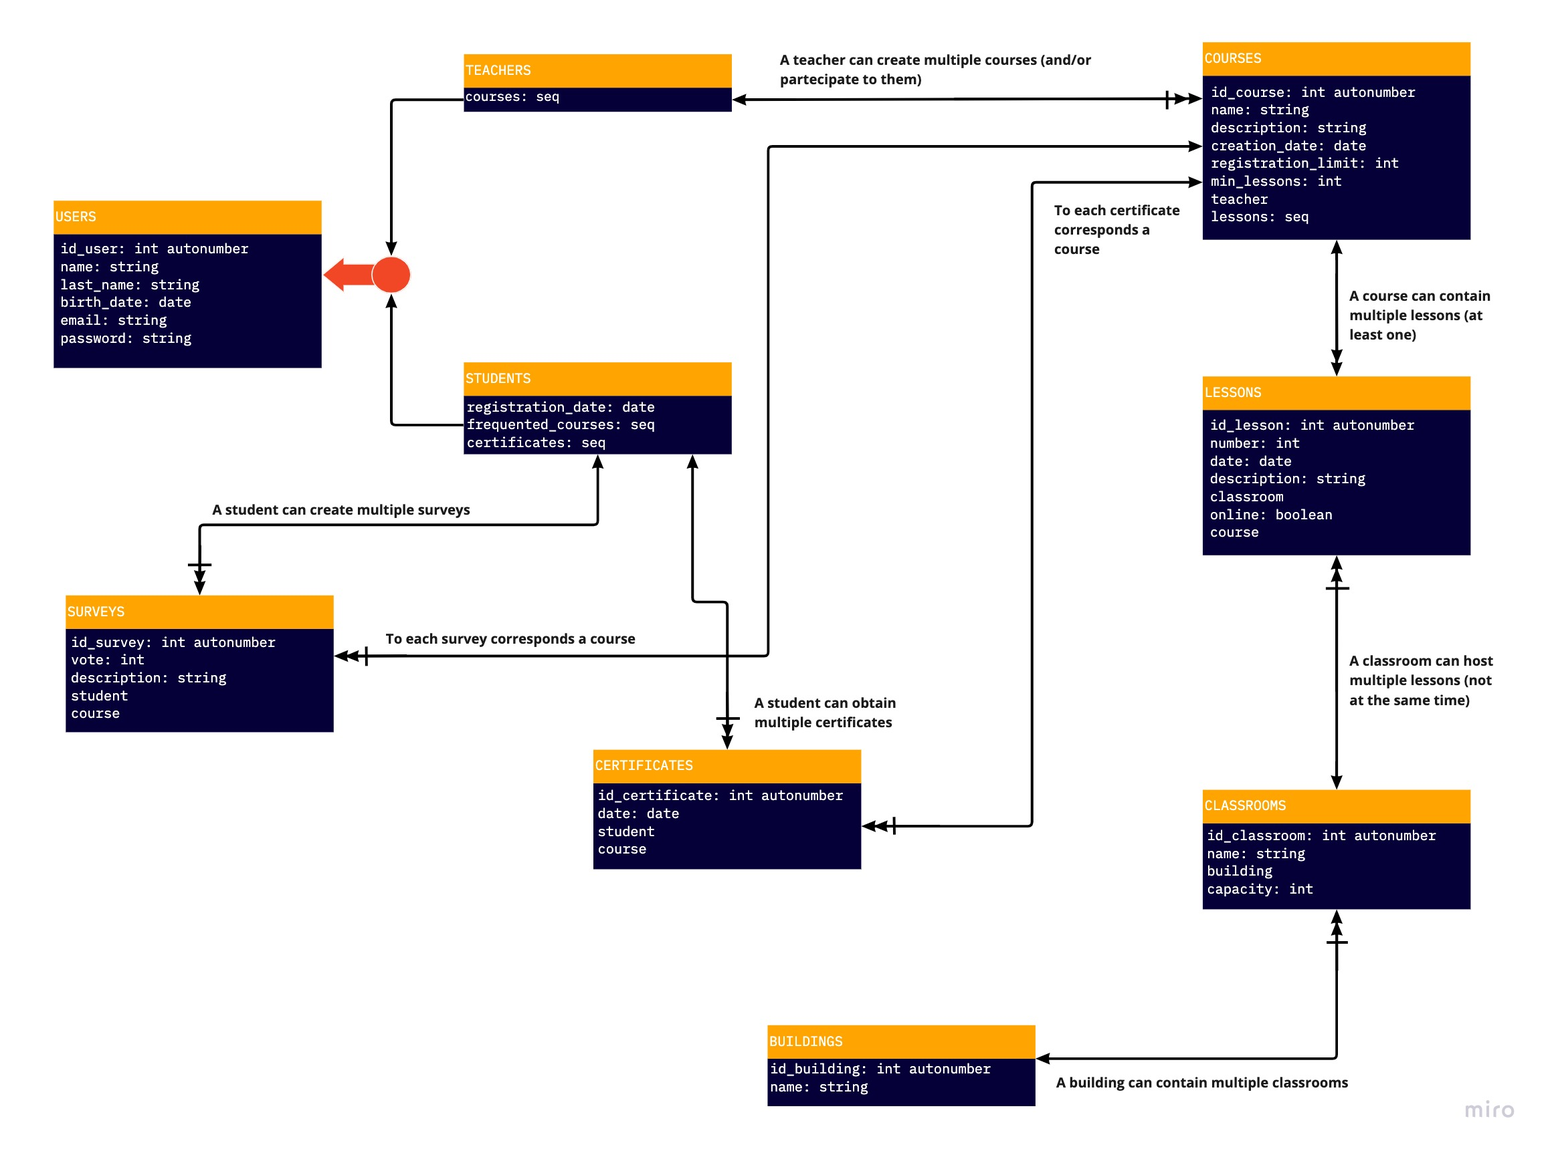
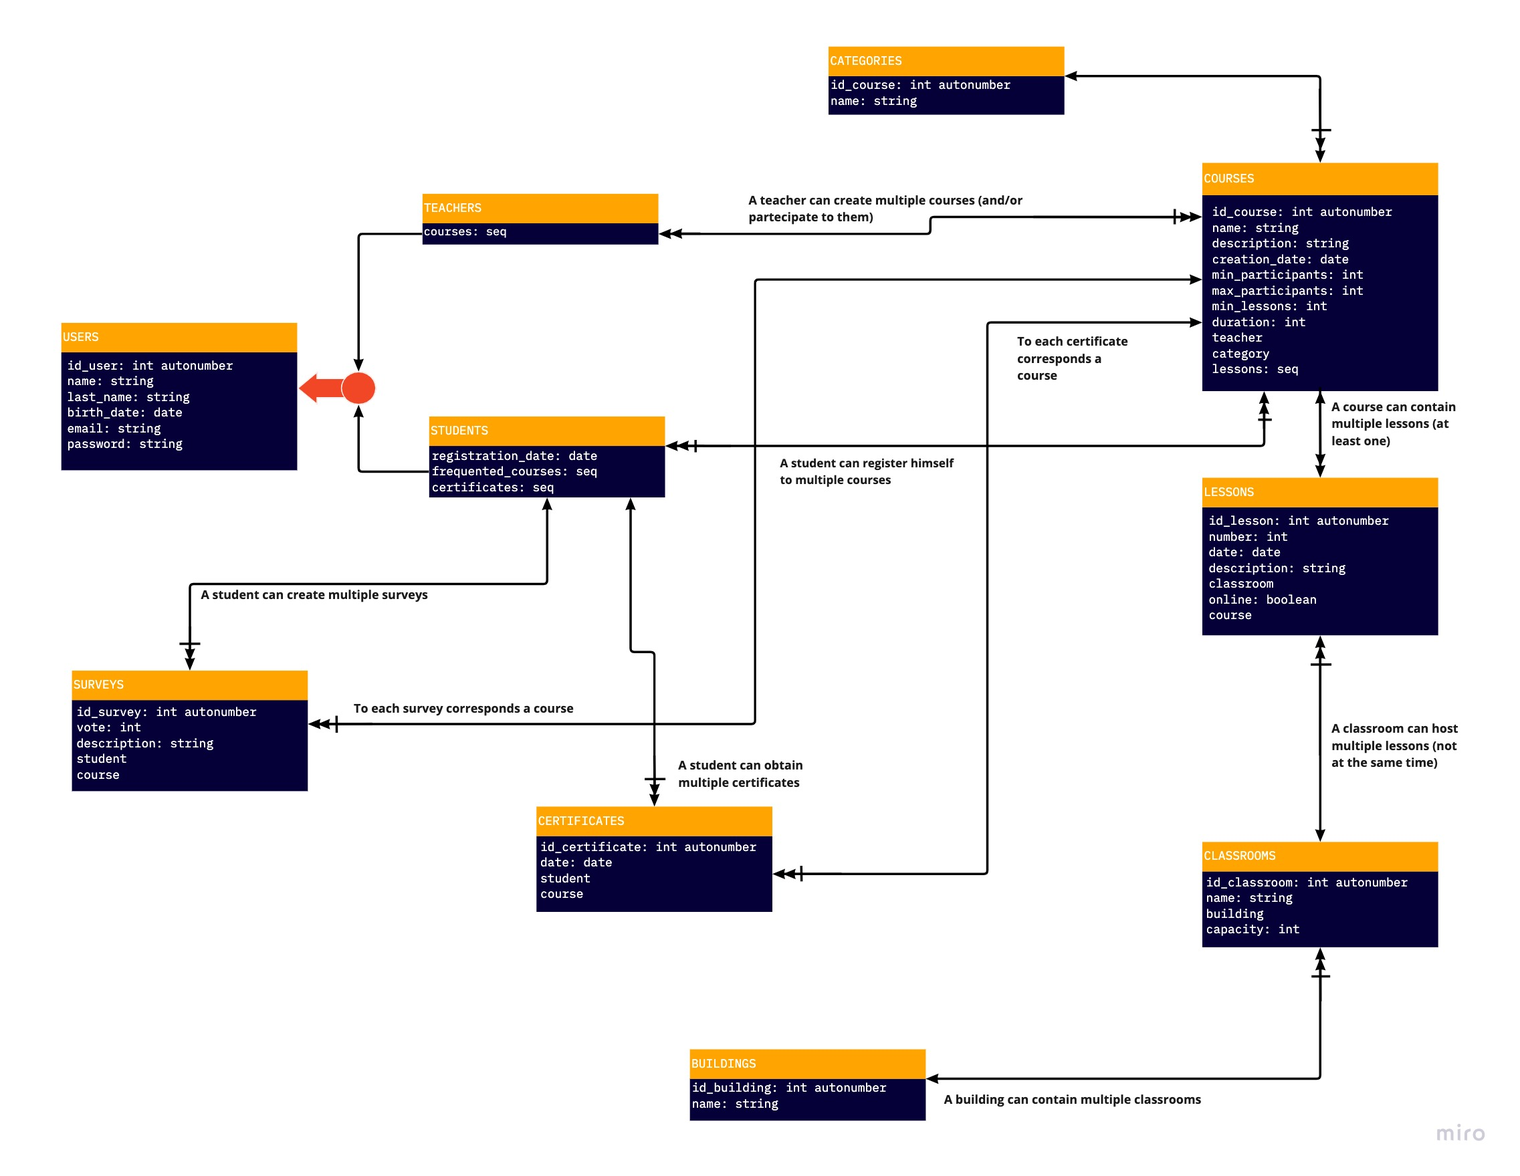
Updated documentation
- updated relational/conceptual schemes
- added categories and many-to-many relation between courses and teachers

diff --git a/docs/html/pcto_webapp_plan.html b/docs/html/pcto_webapp_plan.html
@@ -2,7 +2,7 @@
 <html lang="en">
 <head>
 <title>PCTO Webapp Plan</title>
-<!-- 2022-04-20 Wed 14:59 -->
+<!-- 2022-04-20 Wed 22:20 -->
 <meta charset="utf-8">
 <meta name="viewport" content="width=device-width, initial-scale=1">
 <meta name="generator" content="Org-mode">
@@ -433,7 +433,7 @@ $(function() {
 </li>
 <li><code>[X]</code> Pianificare tabelle con i <b>controlli di integrità</b>
 </li>
-<li><code>[&#xa0;]</code> Aggiungere tabella <b>Categorie</b> e aggiungere il campo in Corsi
+<li><code>[X]</code> Aggiungere tabella <b>Categorie</b> e aggiungere il campo in Corsi
 </li>
 <li><code>[&#xa0;]</code> Creazione <b>database</b>
 </li>
@@ -520,86 +520,123 @@ $(function() {
 <div class="outline-text-3" id="text-8-1">
 <div class="org-src-container">
 
-<pre class="src src-sql">    <span style="color: #a89984;">-- </span><span style="color: #a89984;">tabella utenti</span>
-    <span style="color: #9d0006;">CREATE</span> <span style="color: #9d0006;">TABLE</span> <span style="color: #b57614;">users</span> (
-        id_user <span style="color: #8f3f71;">INT</span> AUTO_INCREMENT,
-        first_name <span style="color: #8f3f71;">VARCHAR</span>(<span style="color: #8f3f71; font-weight: bold;">20</span>) <span style="color: #9d0006;">NOT</span> <span style="color: #9d0006;">NULL</span>,
-        last_name <span style="color: #8f3f71;">VARCHAR</span>(<span style="color: #8f3f71; font-weight: bold;">20</span>) <span style="color: #9d0006;">NOT</span> <span style="color: #9d0006;">NULL</span>,
-        birth_date <span style="color: #8f3f71;">DATE</span> <span style="color: #9d0006;">NOT</span> <span style="color: #9d0006;">NULL</span>,
-        email <span style="color: #8f3f71;">VARCHAR</span>(<span style="color: #8f3f71; font-weight: bold;">30</span>) <span style="color: #9d0006;">NOT</span> <span style="color: #9d0006;">NULL</span>,
-        password <span style="color: #8f3f71;">VARCHAR</span>(<span style="color: #8f3f71; font-weight: bold;">15</span>) <span style="color: #9d0006;">NOT</span> <span style="color: #9d0006;">NULL</span>
-        <span style="color: #9d0006;">PRIMARY</span> <span style="color: #9d0006;">KEY</span>(id_user),
+<pre class="src src-sql">    <span style="color: #928374;">-- </span><span style="color: #928374;">tabella utenti</span>
+    <span style="color: #fb4934;">CREATE</span> <span style="color: #fb4934;">TABLE</span> <span style="color: #b8bb26;">users</span> (
+        id_user <span style="color: #fabd2f;">INT</span> AUTO_INCREMENT,
+        first_name <span style="color: #fabd2f;">VARCHAR</span>(<span style="color: #d3869b; font-weight: bold;">20</span>) <span style="color: #fb4934;">NOT</span> <span style="color: #fb4934;">NULL</span>,
+        last_name <span style="color: #fabd2f;">VARCHAR</span>(<span style="color: #d3869b; font-weight: bold;">20</span>) <span style="color: #fb4934;">NOT</span> <span style="color: #fb4934;">NULL</span>,
+        birth_date <span style="color: #fabd2f;">DATE</span> <span style="color: #fb4934;">NOT</span> <span style="color: #fb4934;">NULL</span>,
+        email <span style="color: #fabd2f;">VARCHAR</span>(<span style="color: #d3869b; font-weight: bold;">30</span>) <span style="color: #fb4934;">NOT</span> <span style="color: #fb4934;">NULL</span>,
+        password <span style="color: #fabd2f;">VARCHAR</span>(<span style="color: #d3869b; font-weight: bold;">15</span>) <span style="color: #fb4934;">NOT</span> <span style="color: #fb4934;">NULL</span>
+        <span style="color: #fb4934;">PRIMARY</span> <span style="color: #fb4934;">KEY</span>(id_user),
     );
 
-    <span style="color: #a89984;">-- </span><span style="color: #a89984;">tabella docenti</span>
-    <span style="color: #9d0006;">CREATE</span> <span style="color: #9d0006;">TABLE</span> <span style="color: #b57614;">teachers</span> (
-        id_teacher <span style="color: #8f3f71;">INT</span>,
-        <span style="color: #9d0006;">PRIMARY</span> <span style="color: #9d0006;">KEY</span>(id_teacher),
-        <span style="color: #9d0006;">FOREIGN</span> <span style="color: #9d0006;">KEY</span>(id_teacher) <span style="color: #9d0006;">REFERENCES</span> users(id_user)
+    <span style="color: #928374;">-- </span><span style="color: #928374;">tabella docenti</span>
+    <span style="color: #fb4934;">CREATE</span> <span style="color: #fb4934;">TABLE</span> <span style="color: #b8bb26;">teachers</span> (
+        id_teacher <span style="color: #fabd2f;">INT</span>,
+        <span style="color: #fb4934;">PRIMARY</span> <span style="color: #fb4934;">KEY</span>(id_teacher),
+        <span style="color: #fb4934;">FOREIGN</span> <span style="color: #fb4934;">KEY</span>(id_teacher) <span style="color: #fb4934;">REFERENCES</span> users(id_user)
     );
 
-    <span style="color: #a89984;">-- </span><span style="color: #a89984;">tabella studenti</span>
-    <span style="color: #9d0006;">CREATE</span> <span style="color: #9d0006;">TABLE</span> <span style="color: #b57614;">students</span> (
-        id_student <span style="color: #8f3f71;">INT</span>,
-        registration_date <span style="color: #8f3f71;">DATE</span> <span style="color: #9d0006;">NOT</span> <span style="color: #9d0006;">NULL</span>
-        <span style="color: #9d0006;">PRIMARY</span> <span style="color: #9d0006;">KEY</span>(id_student),
-        <span style="color: #9d0006;">FOREIGN</span> <span style="color: #9d0006;">KEY</span>(id_student) <span style="color: #9d0006;">REFERENCES</span> users(id_user)
+    <span style="color: #928374;">-- </span><span style="color: #928374;">tabella studenti</span>
+    <span style="color: #fb4934;">CREATE</span> <span style="color: #fb4934;">TABLE</span> <span style="color: #b8bb26;">students</span> (
+        id_student <span style="color: #fabd2f;">INT</span>,
+        registration_date <span style="color: #fabd2f;">DATE</span> <span style="color: #fb4934;">NOT</span> <span style="color: #fb4934;">NULL</span>
+        <span style="color: #fb4934;">PRIMARY</span> <span style="color: #fb4934;">KEY</span>(id_student),
+        <span style="color: #fb4934;">FOREIGN</span> <span style="color: #fb4934;">KEY</span>(id_student) <span style="color: #fb4934;">REFERENCES</span> users(id_user)
     );
 
-    <span style="color: #a89984;">-- </span><span style="color: #a89984;">tabella corsi</span>
-    <span style="color: #9d0006;">CREATE</span> <span style="color: #9d0006;">TABLE</span> <span style="color: #b57614;">courses</span> (
-        id_course <span style="color: #8f3f71;">INT</span> AUTO_INCREMENT,
-        c_name <span style="color: #8f3f71;">VARCHAR</span>(<span style="color: #8f3f71; font-weight: bold;">30</span>) <span style="color: #9d0006;">NOT</span> <span style="color: #9d0006;">NULL</span>,
-        description <span style="color: #8f3f71;">VARCHAR</span>(<span style="color: #8f3f71; font-weight: bold;">100</span>),
-        creation_date <span style="color: #8f3f71;">DATE</span> <span style="color: #9d0006;">NOT</span> <span style="color: #9d0006;">NULL</span>,
-        registration_limit <span style="color: #8f3f71;">INT</span> <span style="color: #9d0006;">CHECK</span>(registration_limit &gt;= <span style="color: #8f3f71; font-weight: bold;">0</span>),
-        min_lessons <span style="color: #8f3f71;">INT</span> <span style="color: #9d0006;">CHECK</span>(min_lessons &gt;= <span style="color: #8f3f71; font-weight: bold;">0</span>),
-        id_teacher <span style="color: #8f3f71;">INT</span> <span style="color: #9d0006;">NOT</span> <span style="color: #9d0006;">NULL</span>,
-        id_creator <span style="color: #8f3f71;">INT</span> <span style="color: #9d0006;">NOT</span> <span style="color: #9d0006;">NULL</span>,
-        <span style="color: #9d0006;">PRIMARY</span> <span style="color: #9d0006;">KEY</span>(id_course),
-        <span style="color: #9d0006;">FOREIGN</span> <span style="color: #9d0006;">KEY</span>(id_creator) <span style="color: #9d0006;">REFERENCES</span> teachers(id_teacher),
-        <span style="color: #9d0006;">FOREIGN</span> <span style="color: #9d0006;">KEY</span>(id_teacher) <span style="color: #9d0006;">REFERENCES</span> teachers(id_teacher)
+    <span style="color: #928374;">-- </span><span style="color: #928374;">tabella categorie</span>
+    <span style="color: #fb4934;">CREATE</span> <span style="color: #fb4934;">TABLE</span> <span style="color: #b8bb26;">categories</span> (
+        id_category <span style="color: #fabd2f;">INT</span> AUTO_INCREMENT,
+        c_name <span style="color: #fabd2f;">VARCHAR</span>(<span style="color: #d3869b; font-weight: bold;">50</span>) <span style="color: #fb4934;">NOT</span> <span style="color: #fb4934;">NULL</span>
+        <span style="color: #fb4934;">PRIMARY</span> <span style="color: #fb4934;">KEY</span>(id_category)
     );
 
-    <span style="color: #a89984;">-- </span><span style="color: #a89984;">tabella edifici</span>
-    <span style="color: #9d0006;">CREATE</span> <span style="color: #9d0006;">TABLE</span> <span style="color: #b57614;">buildings</span> (
-        id_building <span style="color: #8f3f71;">INT</span> AUTO_INCREMENT,
-        b_name <span style="color: #8f3f71;">VARCHAR</span>(<span style="color: #8f3f71; font-weight: bold;">15</span>) <span style="color: #9d0006;">NOT</span> <span style="color: #9d0006;">NULL</span>,
-        <span style="color: #9d0006;">PRIMARY</span> <span style="color: #9d0006;">KEY</span>(id_building)
+    <span style="color: #928374;">-- </span><span style="color: #928374;">tabella corsi</span>
+    <span style="color: #fb4934;">CREATE</span> <span style="color: #fb4934;">TABLE</span> <span style="color: #b8bb26;">courses</span> (
+        id_course <span style="color: #fabd2f;">INT</span> AUTO_INCREMENT,
+        c_name <span style="color: #fabd2f;">VARCHAR</span>(<span style="color: #d3869b; font-weight: bold;">30</span>) <span style="color: #fb4934;">NOT</span> <span style="color: #fb4934;">NULL</span>,
+        description <span style="color: #fabd2f;">VARCHAR</span>(<span style="color: #d3869b; font-weight: bold;">100</span>),
+        creation_date <span style="color: #fabd2f;">DATE</span> <span style="color: #fb4934;">NOT</span> <span style="color: #fb4934;">NULL</span>,
+        max_partecipants <span style="color: #fabd2f;">INT</span> <span style="color: #fb4934;">CHECK</span>(max_partecipants &gt; <span style="color: #d3869b; font-weight: bold;">0</span>),
+        min_partecipants <span style="color: #fabd2f;">INT</span> <span style="color: #fb4934;">CHECK</span>(min_partecipants &gt; <span style="color: #d3869b; font-weight: bold;">0</span>),
+        min_lessons <span style="color: #fabd2f;">INT</span> <span style="color: #fb4934;">NOT</span> <span style="color: #fb4934;">NULL</span> <span style="color: #fb4934;">CHECK</span>(min_lessons &gt;= <span style="color: #d3869b; font-weight: bold;">0</span>),
+        duration <span style="color: #fabd2f;">INT</span> <span style="color: #fb4934;">NOT</span> <span style="color: #fb4934;">NULL</span> <span style="color: #fb4934;">CHECK</span>(duration &gt; <span style="color: #d3869b; font-weight: bold;">0</span>),
+        id_category <span style="color: #fabd2f;">INT</span> <span style="color: #fb4934;">NOT</span> <span style="color: #fb4934;">NULL</span>,
+        <span style="color: #fb4934;">PRIMARY</span> <span style="color: #fb4934;">KEY</span>(id_course),
+        <span style="color: #fb4934;">FOREIGN</span> <span style="color: #fb4934;">KEY</span>(id_category) <span style="color: #fb4934;">REFERENCES</span> categories(id_category)
     );
 
-    <span style="color: #a89984;">-- </span><span style="color: #a89984;">tabella aule</span>
-    <span style="color: #9d0006;">CREATE</span> <span style="color: #9d0006;">TABLE</span> <span style="color: #b57614;">classrooms</span> (
-        id_classroom <span style="color: #8f3f71;">INT</span> AUTO_INCREMENT,
-        c_name <span style="color: #8f3f71;">VARCHAR</span>(<span style="color: #8f3f71; font-weight: bold;">15</span>) <span style="color: #9d0006;">NOT</span> <span style="color: #9d0006;">NULL</span>,
-        capacity <span style="color: #8f3f71;">INT</span> <span style="color: #9d0006;">NOT</span> <span style="color: #9d0006;">NULL</span> <span style="color: #9d0006;">CHECK</span>(capacity &gt; <span style="color: #8f3f71; font-weight: bold;">0</span>),
-        id_building <span style="color: #8f3f71;">INT</span> <span style="color: #9d0006;">NOT</span> <span style="color: #9d0006;">NULL</span>,
-        <span style="color: #9d0006;">PRIMARY</span> <span style="color: #9d0006;">KEY</span>(id_classroom),
-        <span style="color: #9d0006;">FOREIGN</span> <span style="color: #9d0006;">KEY</span>(id_building) <span style="color: #9d0006;">REFERENCES</span> buildings(id_building)
+    <span style="color: #928374;">-- </span><span style="color: #928374;">tabella studenti-corsi</span>
+    <span style="color: #fb4934;">CREATE</span> <span style="color: #fb4934;">TABLE</span> <span style="color: #b8bb26;">students</span>-courses (
+        id_student <span style="color: #fabd2f;">INT</span>,
+        id_course <span style="color: #fabd2f;">INT</span>,
+        registration_date <span style="color: #fabd2f;">date</span> <span style="color: #fb4934;">NOT</span> <span style="color: #fb4934;">NULL</span>,
+        <span style="color: #fb4934;">PRIMARY</span> <span style="color: #fb4934;">KEY</span>(id_student, id_course)
     );
 
-    <span style="color: #a89984;">-- </span><span style="color: #a89984;">tabella attestati</span>
-    <span style="color: #9d0006;">CREATE</span> <span style="color: #9d0006;">TABLE</span> <span style="color: #b57614;">certificates</span> (
-        id_certificate <span style="color: #8f3f71;">INT</span> AUTO_INCREMENT,
-        cartification_date <span style="color: #8f3f71;">DATE</span> <span style="color: #9d0006;">NOT</span> <span style="color: #9d0006;">NULL</span>,
-        id_student <span style="color: #8f3f71;">INT</span> <span style="color: #9d0006;">NOT</span> <span style="color: #9d0006;">NULL</span>,
-        id_course <span style="color: #8f3f71;">INT</span> <span style="color: #9d0006;">NOT</span> <span style="color: #9d0006;">NULL</span>,
-        <span style="color: #9d0006;">PRIMARY</span> <span style="color: #9d0006;">KEY</span>(id_certificate),
-        <span style="color: #9d0006;">FOREIGN</span> <span style="color: #9d0006;">KEY</span>(id_student) <span style="color: #9d0006;">REFERENCES</span> students(id_student),
-        <span style="color: #9d0006;">FOREIGN</span> <span style="color: #9d0006;">KEY</span>(id_course) <span style="color: #9d0006;">REFERENCES</span> courses(id_course),
+    <span style="color: #928374;">-- </span><span style="color: #928374;">tabella studenti-corsi</span>
+    <span style="color: #fb4934;">CREATE</span> <span style="color: #fb4934;">TABLE</span> <span style="color: #b8bb26;">teachers</span>-courses (
+        id_teacher <span style="color: #fabd2f;">INT</span>,
+        id_course <span style="color: #fabd2f;">INT</span>,
+        <span style="color: #fb4934;">PRIMARY</span> <span style="color: #fb4934;">KEY</span>(id_teacher, id_course)
     );
 
-    <span style="color: #a89984;">-- </span><span style="color: #a89984;">tabella sondaggi</span>
-    <span style="color: #9d0006;">CREATE</span> <span style="color: #9d0006;">TABLE</span> <span style="color: #b57614;">surveys</span> (
-        id_survey <span style="color: #8f3f71;">INT</span> AUTO_INCREMENT,
-        vote <span style="color: #8f3f71;">INT</span> <span style="color: #9d0006;">NOT</span> <span style="color: #9d0006;">NULL</span> <span style="color: #9d0006;">CHECK</span>(vote &gt;= <span style="color: #8f3f71; font-weight: bold;">0</span> <span style="color: #9d0006;">AND</span> vote &lt;= <span style="color: #8f3f71; font-weight: bold;">5</span>),
-        description <span style="color: #8f3f71;">VARCHAR</span>(<span style="color: #8f3f71; font-weight: bold;">100</span>),
-        id_student <span style="color: #8f3f71;">INT</span> <span style="color: #9d0006;">NOT</span> <span style="color: #9d0006;">NULL</span>,
-        id_course <span style="color: #8f3f71;">INT</span> <span style="color: #9d0006;">NOT</span> <span style="color: #9d0006;">NULL</span>,
-        <span style="color: #9d0006;">PRIMARY</span> <span style="color: #9d0006;">KEY</span>(id_certificate),
-        <span style="color: #9d0006;">FOREIGN</span> <span style="color: #9d0006;">KEY</span>(id_student) <span style="color: #9d0006;">REFERENCES</span> students(id_student),
-        <span style="color: #9d0006;">FOREIGN</span> <span style="color: #9d0006;">KEY</span>(id_course) <span style="color: #9d0006;">REFERENCES</span> courses(id_course),
+    <span style="color: #928374;">-- </span><span style="color: #928374;">tabella edifici</span>
+    <span style="color: #fb4934;">CREATE</span> <span style="color: #fb4934;">TABLE</span> <span style="color: #b8bb26;">buildings</span> (
+        id_building <span style="color: #fabd2f;">INT</span> AUTO_INCREMENT,
+        b_name <span style="color: #fabd2f;">VARCHAR</span>(<span style="color: #d3869b; font-weight: bold;">15</span>) <span style="color: #fb4934;">NOT</span> <span style="color: #fb4934;">NULL</span>,
+        <span style="color: #fb4934;">PRIMARY</span> <span style="color: #fb4934;">KEY</span>(id_building)
     );
+
+    <span style="color: #928374;">-- </span><span style="color: #928374;">tabella aule</span>
+    <span style="color: #fb4934;">CREATE</span> <span style="color: #fb4934;">TABLE</span> <span style="color: #b8bb26;">classrooms</span> (
+        id_classroom <span style="color: #fabd2f;">INT</span> AUTO_INCREMENT,
+        c_name <span style="color: #fabd2f;">VARCHAR</span>(<span style="color: #d3869b; font-weight: bold;">15</span>) <span style="color: #fb4934;">NOT</span> <span style="color: #fb4934;">NULL</span>,
+        capacity <span style="color: #fabd2f;">INT</span> <span style="color: #fb4934;">NOT</span> <span style="color: #fb4934;">NULL</span> <span style="color: #fb4934;">CHECK</span>(capacity &gt; <span style="color: #d3869b; font-weight: bold;">0</span>),
+        id_building <span style="color: #fabd2f;">INT</span> <span style="color: #fb4934;">NOT</span> <span style="color: #fb4934;">NULL</span>,
+        <span style="color: #fb4934;">PRIMARY</span> <span style="color: #fb4934;">KEY</span>(id_classroom),
+        <span style="color: #fb4934;">FOREIGN</span> <span style="color: #fb4934;">KEY</span>(id_building) <span style="color: #fb4934;">REFERENCES</span> buildings(id_building)
+    );
+
+    <span style="color: #fb4934;">CREATE</span> <span style="color: #fb4934;">TABLE</span> <span style="color: #b8bb26;">lessons</span> (
+        id_lesson <span style="color: #fabd2f;">INT</span> AUTO_INCREMENT,
+        <span style="color: #fb4934;">number</span> <span style="color: #fabd2f;">INT</span> <span style="color: #fb4934;">NOT</span> <span style="color: #fb4934;">NULL</span>,
+        l_date <span style="color: #fabd2f;">DATE</span> <span style="color: #fb4934;">NOT</span> <span style="color: #fb4934;">NULL</span>,
+        description <span style="color: #fabd2f;">VARCHAR</span>(<span style="color: #d3869b; font-weight: bold;">100</span>),
+        online <span style="color: #fabd2f;">BOOLEAN</span> <span style="color: #fb4934;">NOT</span> <span style="color: #fb4934;">NULL</span>,
+        id_course <span style="color: #fabd2f;">INT</span> <span style="color: #fb4934;">NOT</span> <span style="color: #fb4934;">NULL</span>,
+        id_classroom <span style="color: #fabd2f;">INT</span> <span style="color: #fb4934;">NOT</span> <span style="color: #fb4934;">NULL</span>,
+        <span style="color: #fb4934;">PRIMARY</span> <span style="color: #fb4934;">KEY</span>(id_lesson),
+        <span style="color: #fb4934;">FOREIGN</span> <span style="color: #fb4934;">KEY</span>(id_course) <span style="color: #fb4934;">REFERENCES</span> courses(id_course),
+        <span style="color: #fb4934;">FOREIGN</span> <span style="color: #fb4934;">KEY</span>(id_classroom) <span style="color: #fb4934;">REFERENCES</span> classrooms(id_classroom)
+    );
+
+    <span style="color: #928374;">-- </span><span style="color: #928374;">tabella attestati</span>
+    <span style="color: #fb4934;">CREATE</span> <span style="color: #fb4934;">TABLE</span> <span style="color: #b8bb26;">certificates</span> (
+        id_certificate <span style="color: #fabd2f;">INT</span> AUTO_INCREMENT,
+        cartification_date <span style="color: #fabd2f;">DATE</span> <span style="color: #fb4934;">NOT</span> <span style="color: #fb4934;">NULL</span>,
+        id_student <span style="color: #fabd2f;">INT</span> <span style="color: #fb4934;">NOT</span> <span style="color: #fb4934;">NULL</span>,
+        id_course <span style="color: #fabd2f;">INT</span> <span style="color: #fb4934;">NOT</span> <span style="color: #fb4934;">NULL</span>,
+        <span style="color: #fb4934;">PRIMARY</span> <span style="color: #fb4934;">KEY</span>(id_certificate),
+        <span style="color: #fb4934;">FOREIGN</span> <span style="color: #fb4934;">KEY</span>(id_student) <span style="color: #fb4934;">REFERENCES</span> students(id_student),
+        <span style="color: #fb4934;">FOREIGN</span> <span style="color: #fb4934;">KEY</span>(id_course) <span style="color: #fb4934;">REFERENCES</span> courses(id_course),
+    );
+
+    <span style="color: #928374;">-- </span><span style="color: #928374;">tabella sondaggi</span>
+    <span style="color: #fb4934;">CREATE</span> <span style="color: #fb4934;">TABLE</span> <span style="color: #b8bb26;">surveys</span> (
+        id_survey <span style="color: #fabd2f;">INT</span> AUTO_INCREMENT,
+        vote <span style="color: #fabd2f;">INT</span> <span style="color: #fb4934;">NOT</span> <span style="color: #fb4934;">NULL</span> <span style="color: #fb4934;">CHECK</span>(vote &gt;= <span style="color: #d3869b; font-weight: bold;">0</span> <span style="color: #fb4934;">AND</span> vote &lt;= <span style="color: #d3869b; font-weight: bold;">5</span>),
+        description <span style="color: #fabd2f;">VARCHAR</span>(<span style="color: #d3869b; font-weight: bold;">100</span>),
+        id_student <span style="color: #fabd2f;">INT</span> <span style="color: #fb4934;">NOT</span> <span style="color: #fb4934;">NULL</span>,
+        id_course <span style="color: #fabd2f;">INT</span> <span style="color: #fb4934;">NOT</span> <span style="color: #fb4934;">NULL</span>,
+        <span style="color: #fb4934;">PRIMARY</span> <span style="color: #fb4934;">KEY</span>(id_certificate),
+        <span style="color: #fb4934;">FOREIGN</span> <span style="color: #fb4934;">KEY</span>(id_student) <span style="color: #fb4934;">REFERENCES</span> students(id_student),
+        <span style="color: #fb4934;">FOREIGN</span> <span style="color: #fb4934;">KEY</span>(id_course) <span style="color: #fb4934;">REFERENCES</span> courses(id_course),
+    );
+
+
 
 </pre>
 </div>
@@ -609,7 +646,7 @@ $(function() {
 </div></div></div>
 <footer id="postamble" class="">
 <div><p class="author">Author: Pietro Visconti</p>
-<p class="date">Created: 2022-04-20 Wed 14:59</p>
+<p class="date">Created: 2022-04-20 Wed 22:20</p>
 <p class="creator"><a href="http://www.gnu.org/software/emacs/">Emacs</a> 28.0.91 (<a href="http://orgmode.org">Org-mode</a> 9.6)</p>
 </div>
 </footer>
